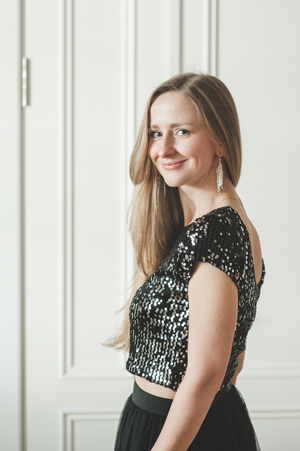
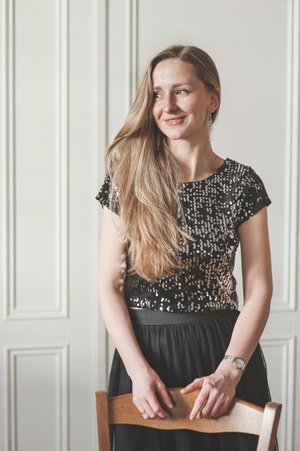
update photos

diff --git a/js/translations.js b/js/translations.js
@@ -134,7 +134,7 @@
                     bio: ""
                 },
                 {
-                    img: "images/Nadia1.jpg",
+                    img: "images/Nadia-1.jpg",
                     name: "045640 5;5H:>",
                     function: "$;59B0, 0;LB>20O D;59B0",
                     bio: ""
@@ -243,7 +243,7 @@
                     bio: ""
                 },
                 {
-                    img: "images/Nadia1.jpg",
+                    img: "images/Nadia-1.jpg",
                     name: "Nadzieja Mieleszko",
                     function: "Flet",
                     bio: ""
@@ -337,7 +337,7 @@
                     bio: ""
                 },
                 {
-                    img: "images/Nadia1.jpg",
+                    img: "images/Nadia-1.jpg",
                     name: "Nadezhda Meleshko",
                     function: "Flute and alto flute",
                     bio: ""
